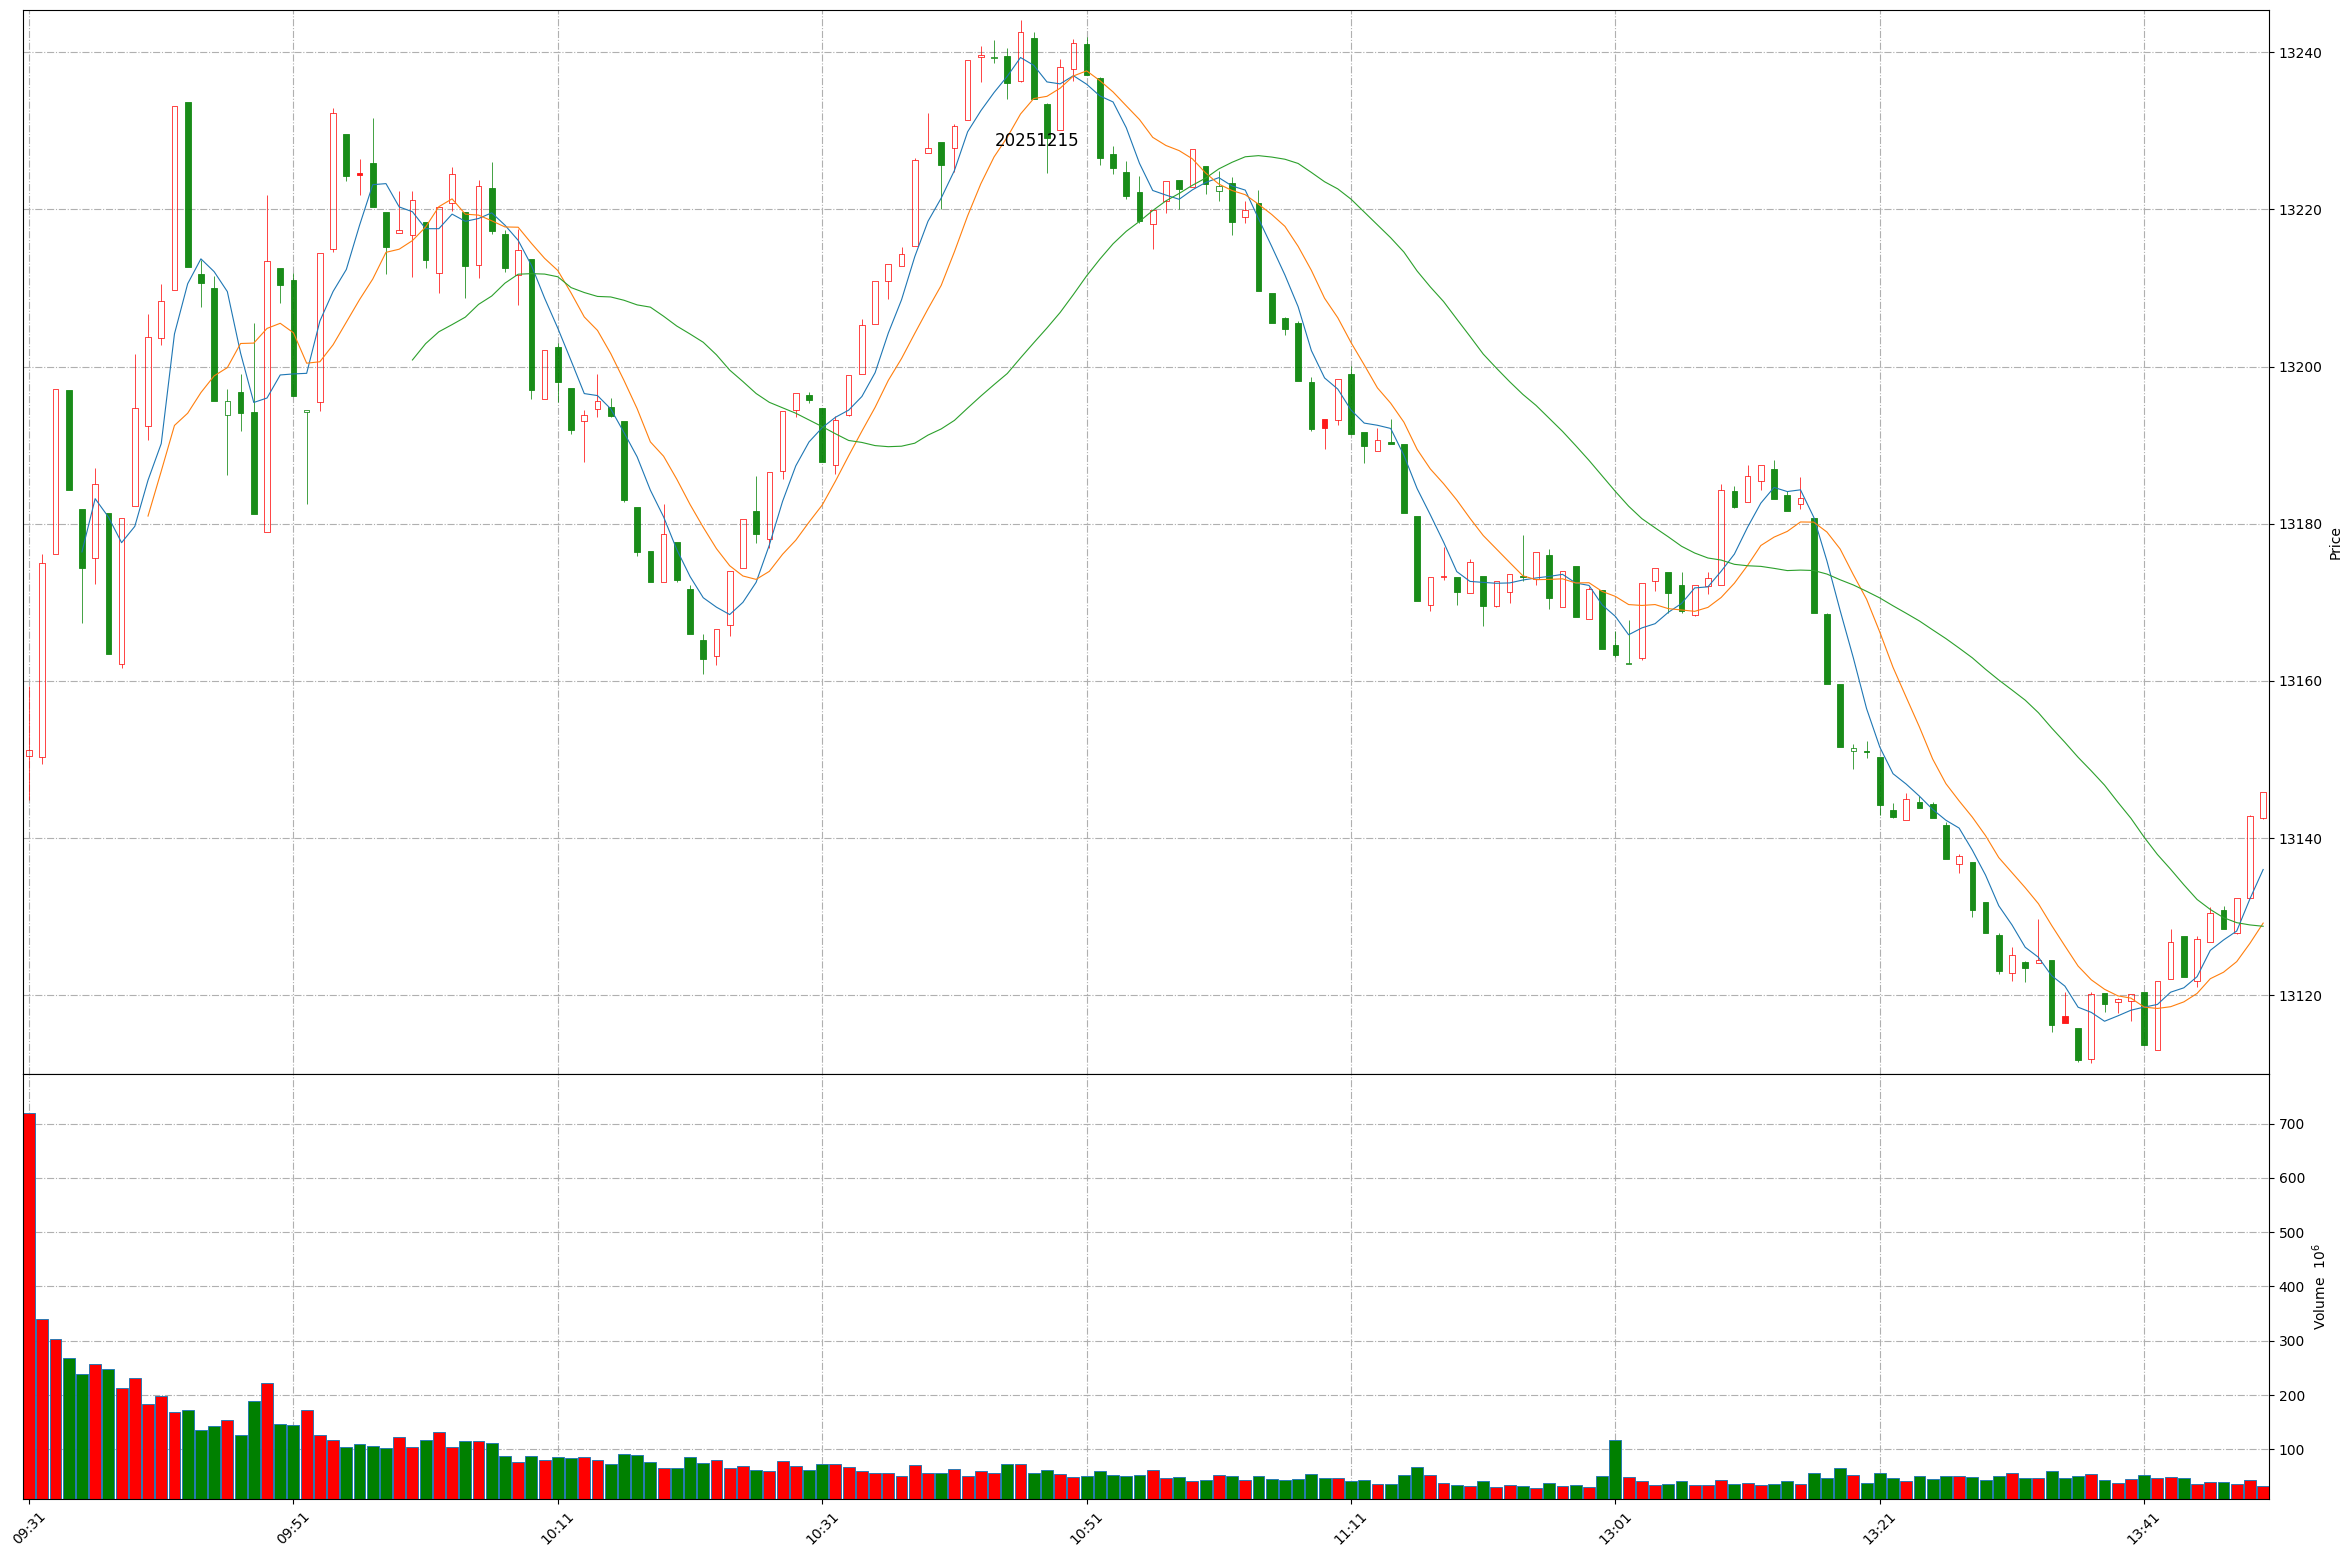
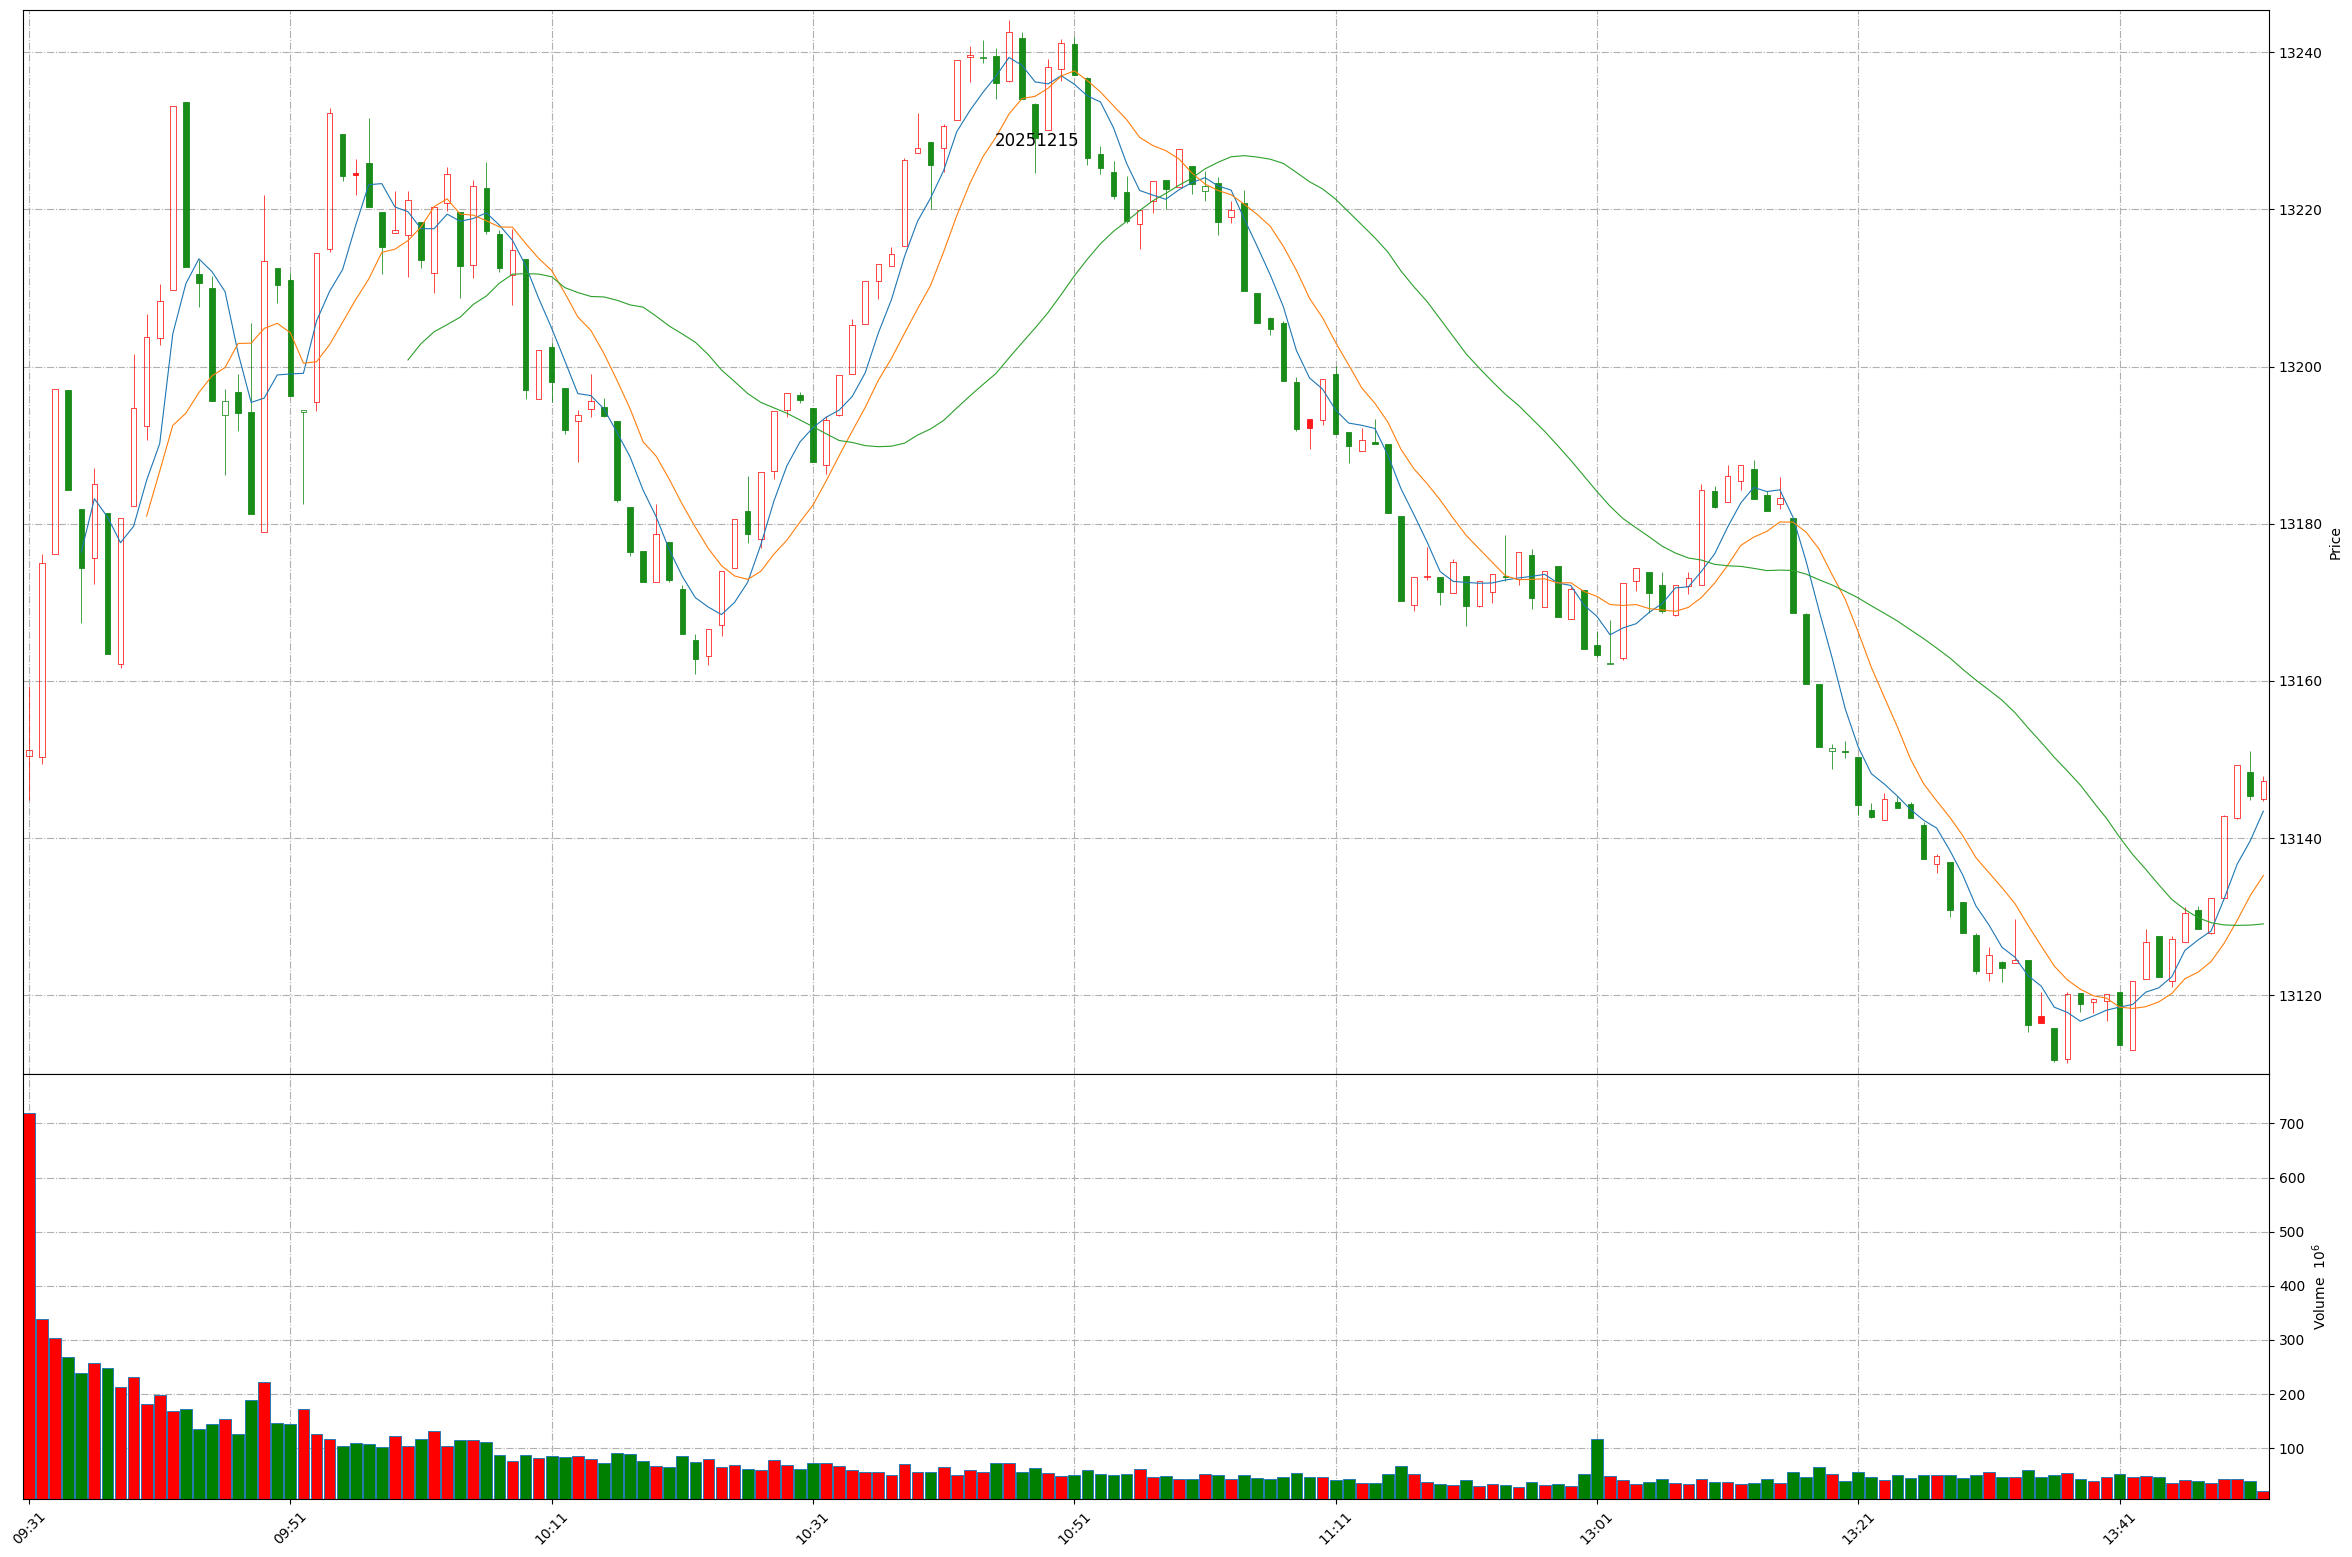
Github action update at 2025-12-15 13:51:38.

diff --git a/README.md b/README.md
@@ -1,11 +1,11 @@
 
 # Daily-A-share-market-quotes 每日 A 股指数（5min 更新）- 20251215
 
-### 上证指数 20251215 13:50
+### 上证指数 20251215 13:51
 ![](./fig/2025/12/20251215-sh000001.png)
 
-### 深证成指 20251215 13:50
+### 深证成指 20251215 13:51
 ![](./fig/2025/12/20251215-sz399001.png)
 
-### 北证50 20251215 13:50
+### 北证50 20251215 13:51
 ![](./fig/2025/12/20251215-bj899050.png)
